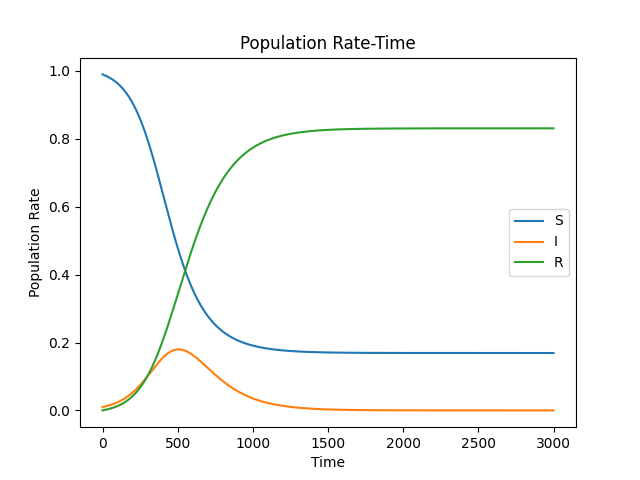
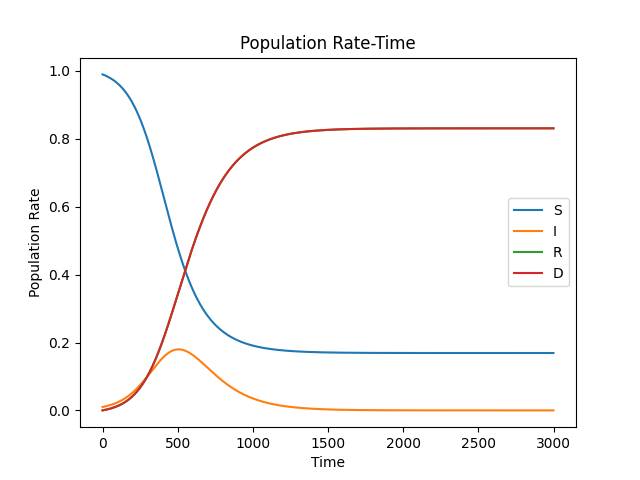
シミュレーション完成(初期値は適当)

diff --git a/app.py b/app.py
@@ -1,11 +1,14 @@
 import matplotlib.pyplot as plt
-import tqdm
+import logging
 
 """
+N→総人口
 S→健康な人
 I→感染者
 R→免疫獲得者
 D→死亡した人
+
+contact_num→一日の一人当たりの接触人数
 infetion_rate→感染率
 healing_rate→治癒率
 loop_num→ループする日数
@@ -17,46 +20,54 @@ death_num→死亡するまでの日数
 """
 
 # 初期条件
-S = 0.99
-I = 0.01
+S = 100000
+I = 1
 R = 0
 D = 0
+N = S + I + R
 t = 0
 
 # 各パラメータの設定
-infetion_rate = 1.7
-healing_rate = 0.8
+contact_num = 10
+infetion_rate = 0.002
+healing_rate = 0.003
 loop_num = 3000
-delta_t = 0.01
+delta_t = 1
 exposed_num = 5
 death_rate = 0.03
 death_num = 20
 
+CN = contact_num
 IR = infetion_rate
 HR = healing_rate
 LN = loop_num
 DR = death_rate
-DN = death_num
 
 # 結果記録用のリスト
 t_list = []
 S_list = []
 I_list = []
 R_list = []
+D_list = []
 
 for t in range(loop_num):
-    new_S = S + delta_t * (-IR * S * I)
-    new_I = I + delta_t * (IR* S * I - HR * I)
-    new_R = R + delta_t * (HR * I)
-    new_D = D + delta_t * DR * (1/DN) * I
+    new_S = S + delta_t * (-IR * CN * (I/N) * S) #I/N→人口における感染してる人の割合、
+    new_I = I + delta_t * (IR * CN * (I/N) * S - HR * I)
+    new_R = R + delta_t * ((1-DR)*HR * I)
+    new_D = D + delta_t * (DR * HR * I)
+
+    """すべての微分の足し算→0""" #(-IR * CN * (I/N) * S)+(IR * CN * (I/N) * S - HR * I)+((1-DR)*HR * I)+(DR * HR * I)
 
     t_list.append(t)
     S_list.append(new_S)
     I_list.append(new_I)
     R_list.append(new_R)
+    D_list.append(new_D)
+
     S = new_S
     I = new_I
     R = new_R
+    D = new_D
 
     t = t + delta_t 
 
@@ -64,12 +75,11 @@ fig = plt.figure()
 plt.plot(t_list, S_list, label='S')
 plt.plot(t_list, I_list, label='I')
 plt.plot(t_list, R_list, label='R')
+plt.plot(t_list, D_list, label='D')
 
 plt.title('Population Rate-Time')
 plt.xlabel('Time')
 plt.ylabel('Population Rate')
 plt.legend()
 plt.show()
-fig.savefig('./SIR_P-T.png')
-
-print('\n --DONE-- \n')
+fig.savefig('InfectionSimulation.png')
